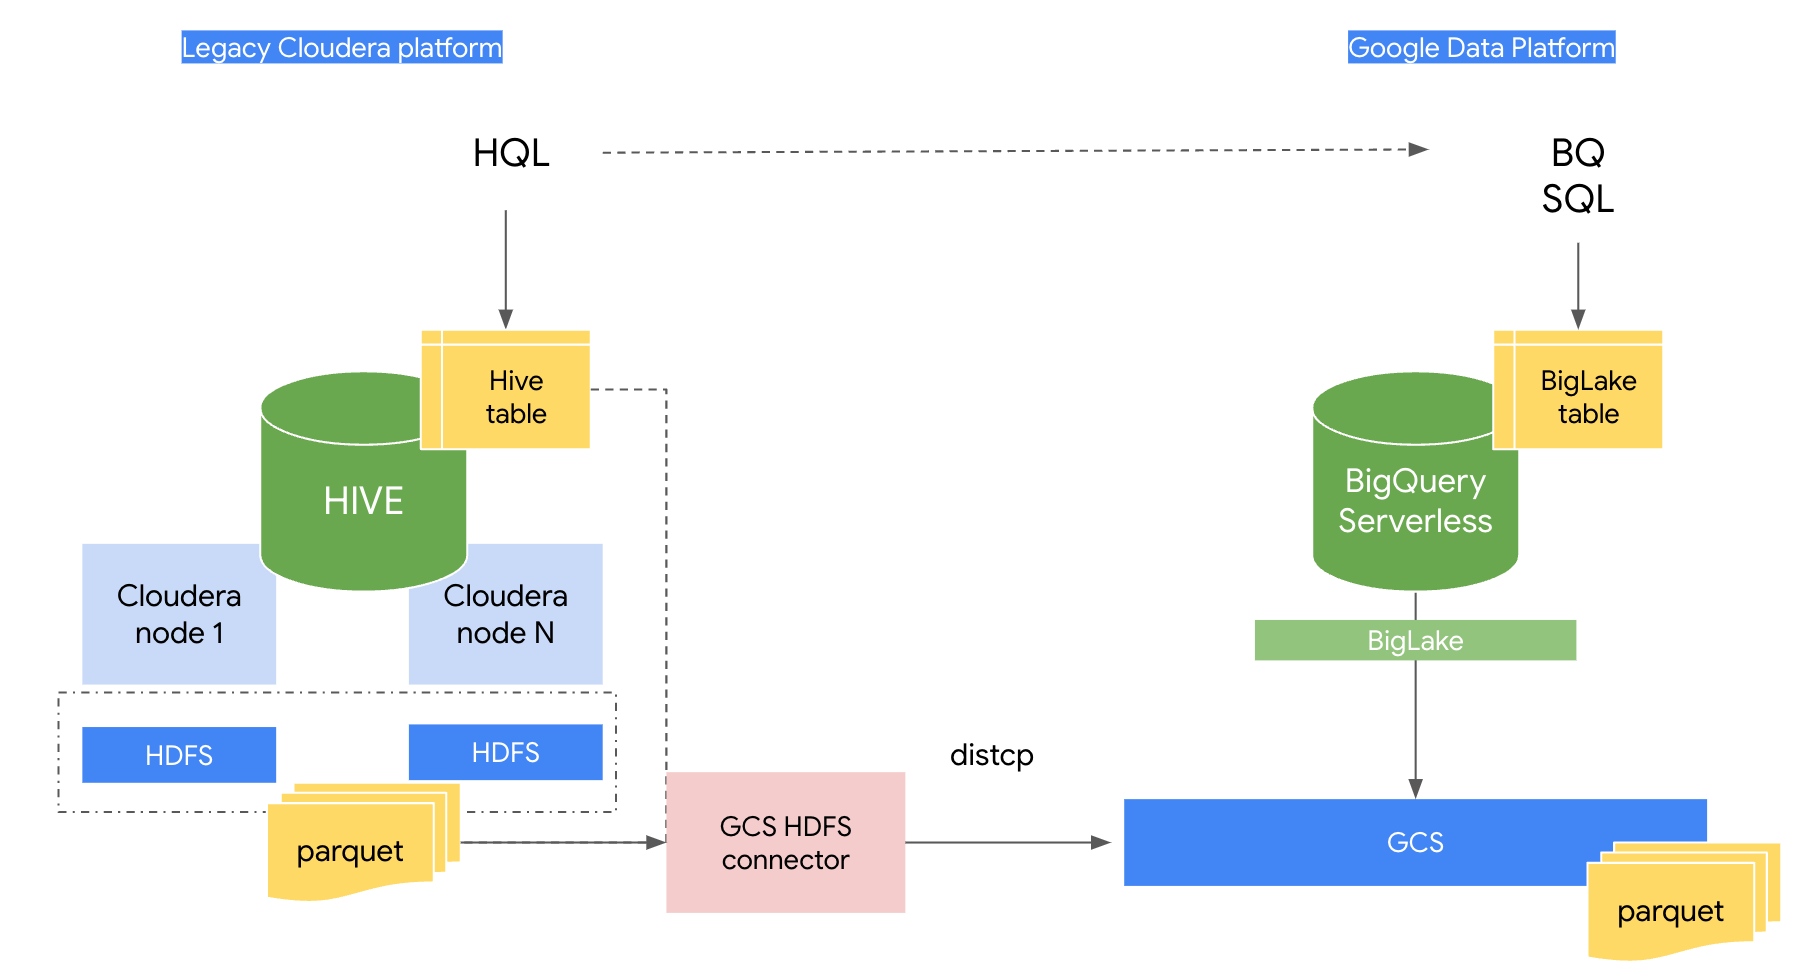
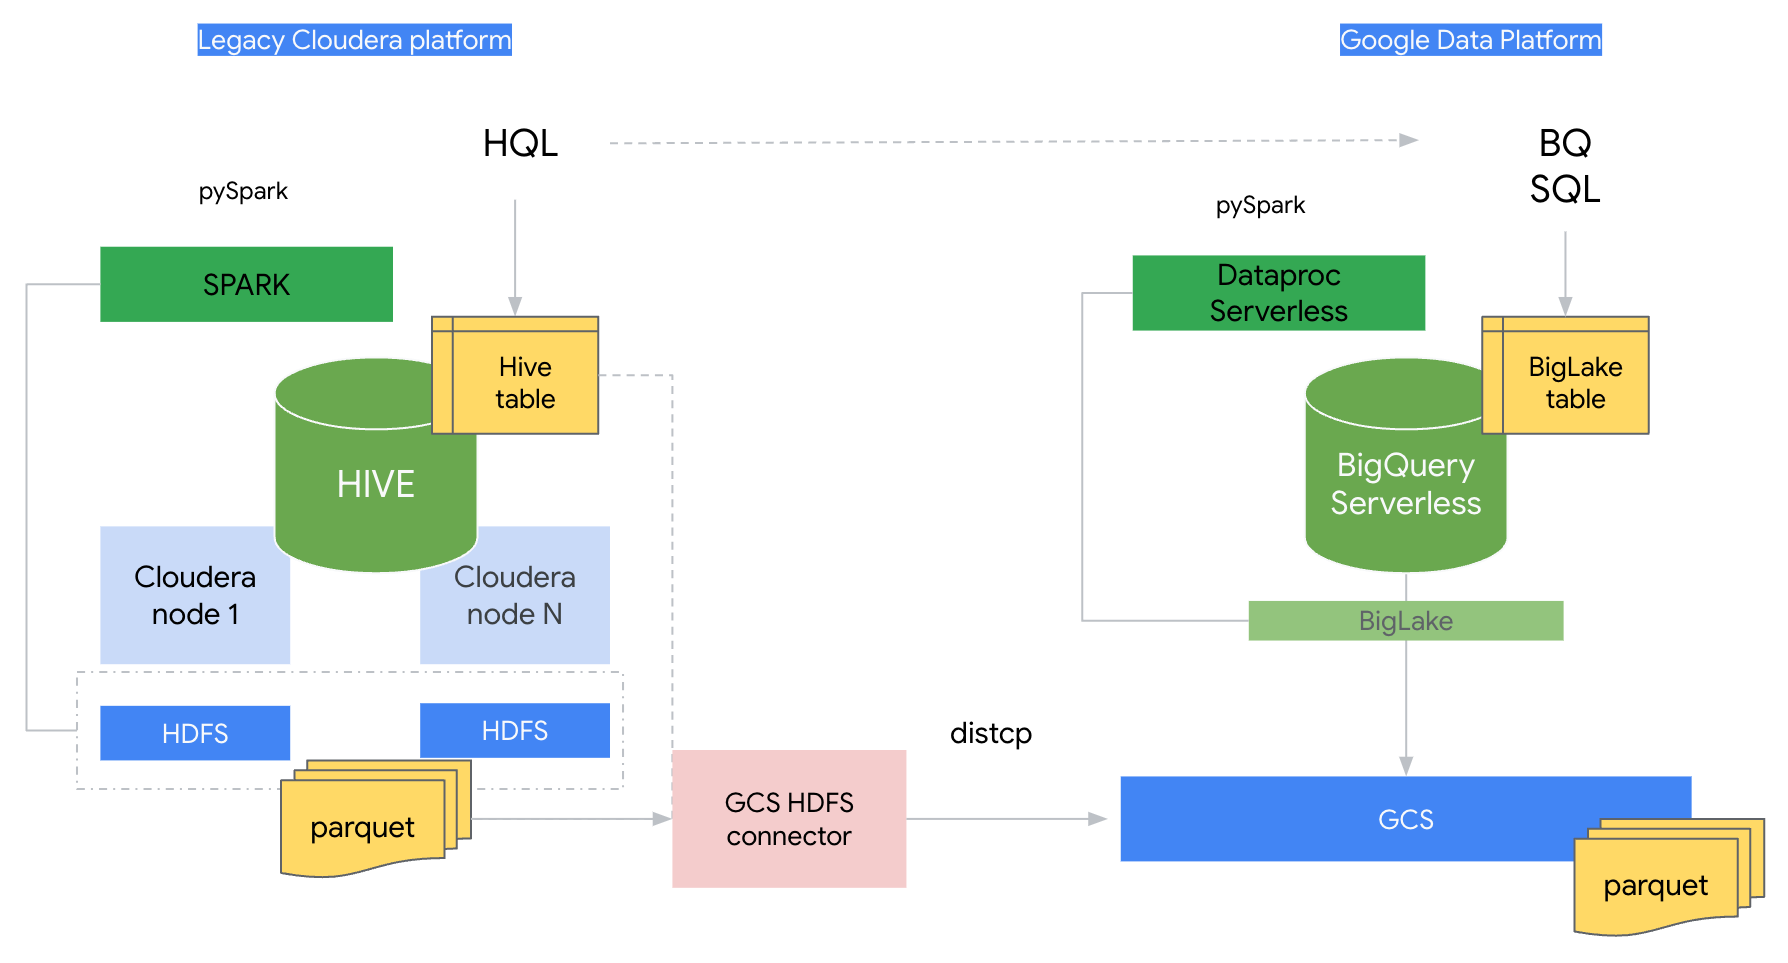
Add diagram

diff --git a/hive-to-bq-biglake/README.md b/hive-to-bq-biglake/README.md
@@ -142,7 +142,7 @@ Execute they query and check the results back.
 
 9. For the pySpark part, create a new file on Cloud Shell and introduce some minor adjustments on the original code:
 
-```console
+```python
 
 from pyspark.sql import SparkSession
 from pyspark.sql.functions import col, avg, sum, hour, countDistinct, date_format
